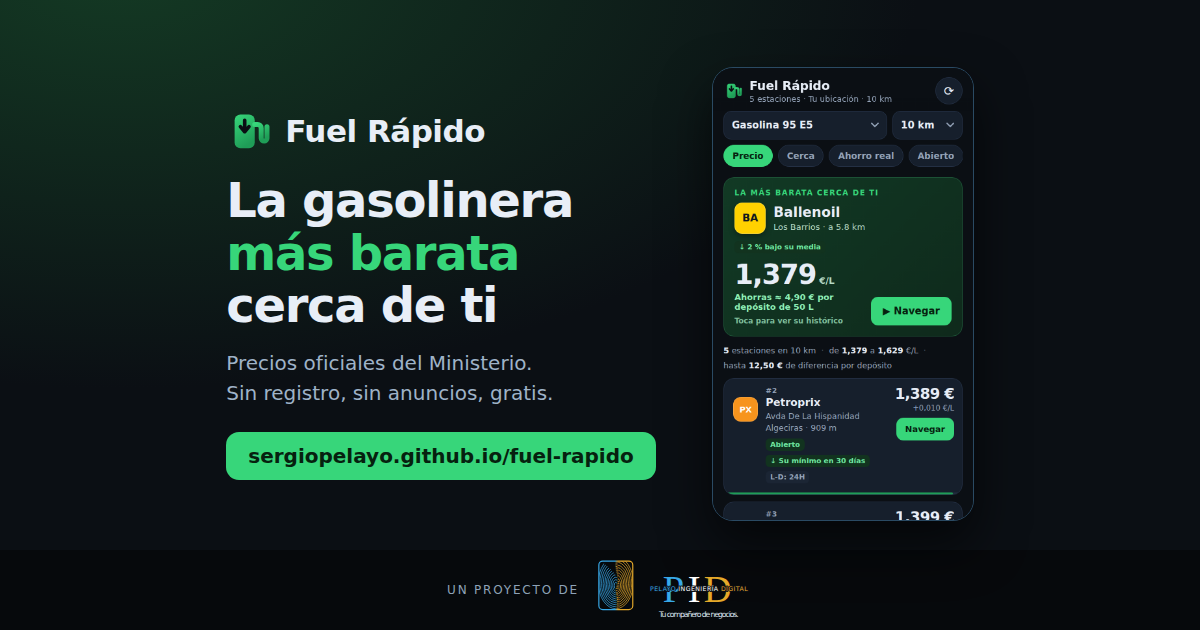
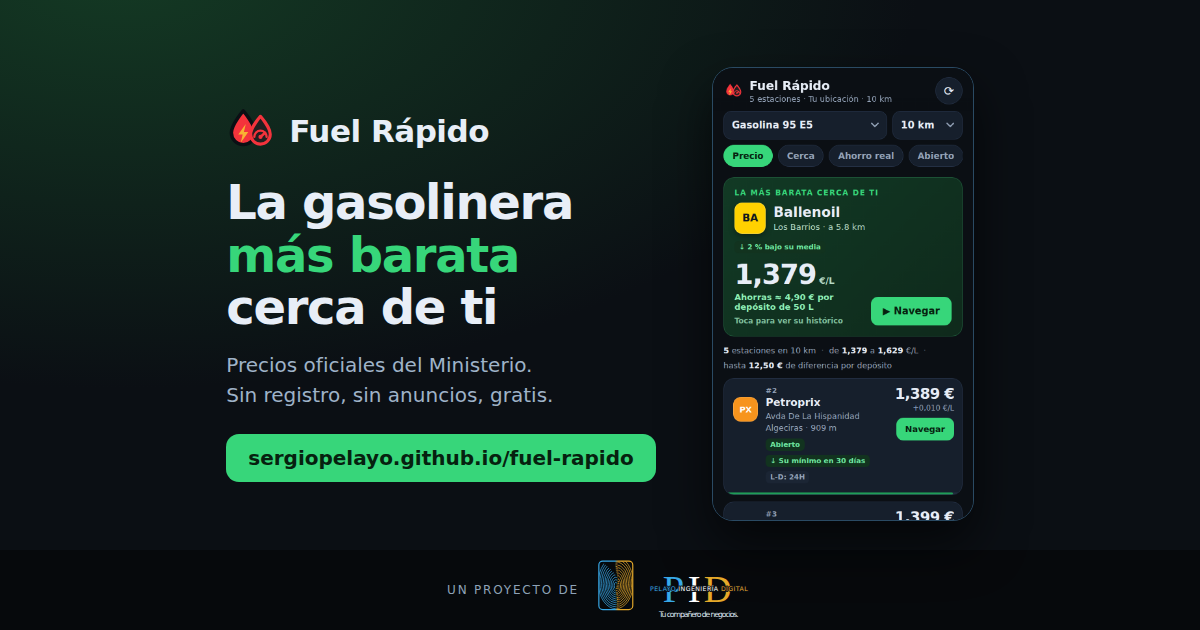
cambios de iconos

diff --git a/sw.js b/sw.js
@@ -2,7 +2,7 @@
    Sólo cachea el "esqueleto" de la app (mismo origen). Los precios se guardan
    aparte en IndexedDB, así que la app abre y funciona sin cobertura. */
 
-const VERSION = 'fuel-rapido-v5';
+const VERSION = 'fuel-rapido-v7';
 const SHELL = [
   './',
   './index.html',

diff --git a/README.md b/README.md
@@ -270,10 +270,14 @@ por luminancia para que siempre tenga contraste.
 
 ### La marca de la app
 
-`assets/icono.svg` — un surtidor con la flecha de «precio a la baja», dibujado para
-leerse a **22 px** en la cabecera. De ahí salen también el favicon y los iconos de la
-PWA (`icons/`), así que cabecera, pestaña del navegador y pantalla de inicio del móvil
-llevan la misma marca.
+`assets/icono.svg` — dos gotas de combustible, una con el rayo de la velocidad y otra
+con el marcador. El símbolo lo aporta Pelayo Ingeniería Digital. De ahí salen también el
+favicon y los iconos de la PWA (`icons/`), así que cabecera, pestaña del navegador y
+pantalla de inicio del móvil llevan la misma marca.
+
+Va **sin las palabras** del logotipo original a propósito: el nombre lo pone el texto de
+la interfaz, y así el símbolo sigue leyéndose a 22 px. El surtidor anterior sigue en el
+repo como `assets/icono-surtidor.svg` por si algún día se quiere recuperar.
 
 Se descartaron los emoji (⛽ 📊 💶 📍) a propósito: cada sistema operativo los dibuja a
 su manera, así que el mismo icono se veía distinto en Android, iPhone y escritorio.
